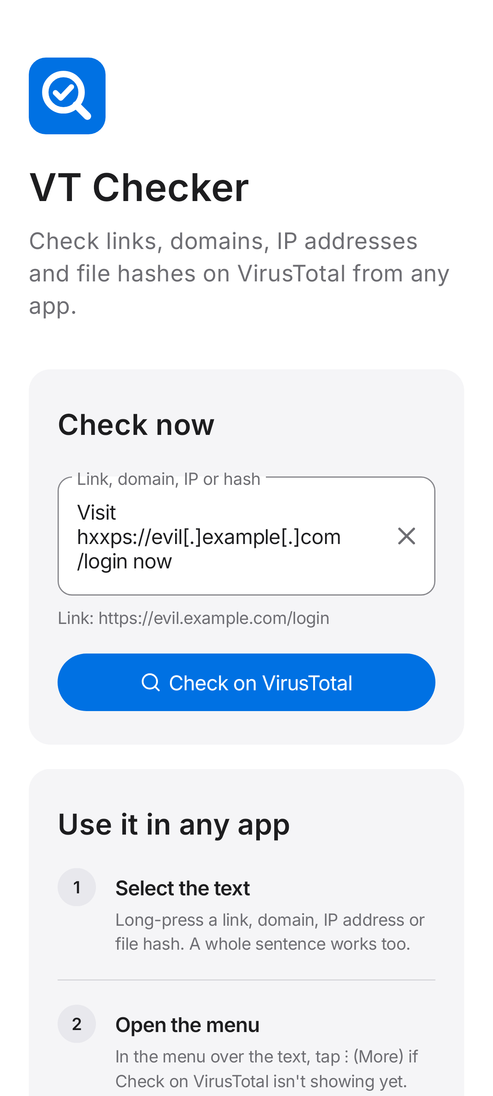
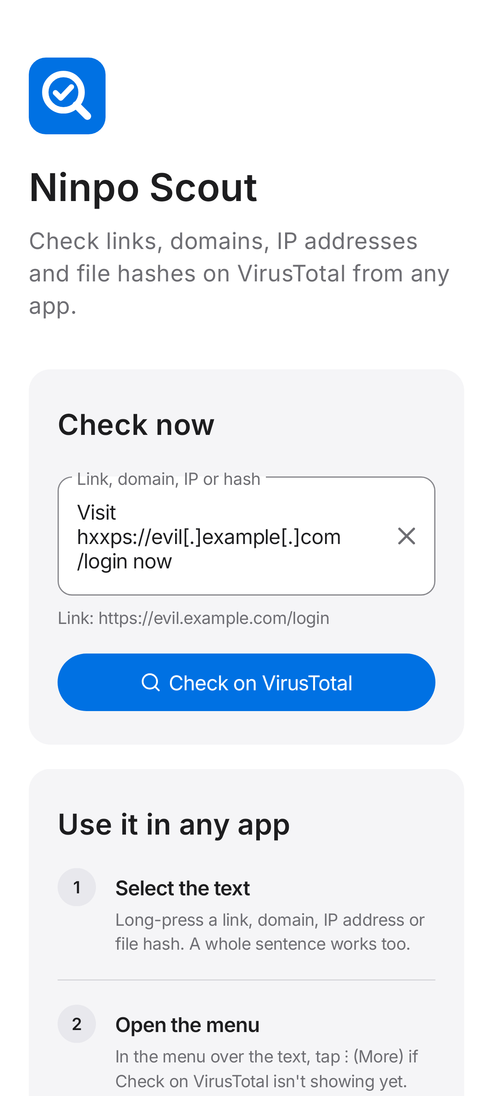
Rename the app to Ninpo Scout
"VT" in the old name referred to VirusTotal, which Google Play's
impersonation policy makes risky without VirusTotal's permission.
Ninpo Scout leads with the company name.

- Application ID and package: com.ninpo.vtchecker -> com.ninpo.scout.
  It can't change after the first Play upload, so it changes now.
- App name, home screen, footer, dialogs, licenses screen, theme and
  style names, the settings file name and README.
- The text-menu and Share label stays "Check on VirusTotal", since it
  tells people where the report comes from.
- README screenshots re-rendered.

Changed region(s): [[0.0609, 0.1551, 0.5172, 0.1861]]

diff --git a/app/src/test/java/com/ninpo/scout/ScreenshotTest.java b/app/src/test/java/com/ninpo/scout/ScreenshotTest.java
@@ -1,4 +1,4 @@
-package com.ninpo.vtchecker;
+package com.ninpo.scout;
 
 import static org.junit.Assume.assumeTrue;
 
@@ -41,7 +41,7 @@ public class ScreenshotTest {
 
     @Before
     public void onlyWhenAsked() {
-        assumeTrue(Boolean.getBoolean("vt.screenshots"));
+        assumeTrue(Boolean.getBoolean("scout.screenshots"));
     }
 
     @Test
@@ -127,7 +127,7 @@ public class ScreenshotTest {
 
     private static void captureCheck(String name, String text, boolean noticeSeen) throws IOException {
         Context app = ApplicationProvider.getApplicationContext();
-        app.getSharedPreferences("vt_checker", Context.MODE_PRIVATE)
+        app.getSharedPreferences("scout", Context.MODE_PRIVATE)
                 .edit().putBoolean("privacy_notice_seen", noticeSeen).commit();
         android.content.Intent intent = new android.content.Intent(android.content.Intent.ACTION_PROCESS_TEXT)
                 .setClass(app, CheckActivity.class)
@@ -152,7 +152,7 @@ public class ScreenshotTest {
         Canvas canvas = new Canvas(bitmap);
         canvas.drawColor(background);
         view.draw(canvas);
-        File dir = new File(System.getProperty("vt.screenshotDir", "build/screenshots"));
+        File dir = new File(System.getProperty("scout.screenshotDir", "build/screenshots"));
         if (!dir.isDirectory() && !dir.mkdirs()) throw new IOException("can't create " + dir);
         try (FileOutputStream out = new FileOutputStream(new File(dir, name + ".png"))) {
             bitmap.compress(Bitmap.CompressFormat.PNG, 100, out);

diff --git a/app/src/test/java/com/ninpo/scout/CheckActivityTest.java b/app/src/test/java/com/ninpo/scout/CheckActivityTest.java
@@ -1,4 +1,4 @@
-package com.ninpo.vtchecker;
+package com.ninpo.scout;
 
 import static org.junit.Assert.assertEquals;
 import static org.junit.Assert.assertFalse;
@@ -37,7 +37,7 @@ public class CheckActivityTest {
     }
 
     private void noticeAlreadySeen() {
-        app.getSharedPreferences("vt_checker", Context.MODE_PRIVATE)
+        app.getSharedPreferences("scout", Context.MODE_PRIVATE)
                 .edit().putBoolean("privacy_notice_seen", true).commit();
     }
 
@@ -96,7 +96,7 @@ public class CheckActivityTest {
         ShadowLooper.idleMainLooper();
         assertEquals("https://www.virustotal.com/gui/search?query=8.8.8.8", openedUrl(activity));
         assertTrue(activity.isFinishing());
-        assertTrue(app.getSharedPreferences("vt_checker", Context.MODE_PRIVATE)
+        assertTrue(app.getSharedPreferences("scout", Context.MODE_PRIVATE)
                 .getBoolean("privacy_notice_seen", false));
     }
 
@@ -107,7 +107,7 @@ public class CheckActivityTest {
         ShadowLooper.idleMainLooper();
         assertNull(shadowOf(activity).getNextStartedActivity());
         assertTrue(activity.isFinishing());
-        assertFalse(app.getSharedPreferences("vt_checker", Context.MODE_PRIVATE)
+        assertFalse(app.getSharedPreferences("scout", Context.MODE_PRIVATE)
                 .getBoolean("privacy_notice_seen", false));
     }
 

diff --git a/app/src/test/java/com/ninpo/scout/IndicatorParserTest.java b/app/src/test/java/com/ninpo/scout/IndicatorParserTest.java
@@ -1,9 +1,9 @@
-package com.ninpo.vtchecker;
+package com.ninpo.scout;
 
-import static com.ninpo.vtchecker.Indicator.Type.DOMAIN;
-import static com.ninpo.vtchecker.Indicator.Type.FILE_HASH;
-import static com.ninpo.vtchecker.Indicator.Type.IP_ADDRESS;
-import static com.ninpo.vtchecker.Indicator.Type.URL;
+import static com.ninpo.scout.Indicator.Type.DOMAIN;
+import static com.ninpo.scout.Indicator.Type.FILE_HASH;
+import static com.ninpo.scout.Indicator.Type.IP_ADDRESS;
+import static com.ninpo.scout.Indicator.Type.URL;
 import static org.junit.Assert.assertEquals;
 import static org.junit.Assert.assertFalse;
 import static org.junit.Assert.assertTrue;

diff --git a/app/src/main/java/com/ninpo/scout/CheckFlow.java b/app/src/main/java/com/ninpo/scout/CheckFlow.java
@@ -1,4 +1,4 @@
-package com.ninpo.vtchecker;
+package com.ninpo.scout;
 
 import android.content.ActivityNotFoundException;
 import android.content.Context;
@@ -28,7 +28,7 @@ import java.util.List;
  */
 final class CheckFlow {
 
-    private static final String PREFS = "vt_checker";
+    private static final String PREFS = "scout";
     private static final String KEY_NOTICE_SEEN = "privacy_notice_seen";
 
     private CheckFlow() {}

diff --git a/app/src/main/java/com/ninpo/scout/Indicator.java b/app/src/main/java/com/ninpo/scout/Indicator.java
@@ -1,4 +1,4 @@
-package com.ninpo.vtchecker;
+package com.ninpo.scout;
 
 import androidx.annotation.NonNull;
 import androidx.annotation.StringRes;

diff --git a/app/src/main/java/com/ninpo/scout/IndicatorParser.java b/app/src/main/java/com/ninpo/scout/IndicatorParser.java
@@ -1,4 +1,4 @@
-package com.ninpo.vtchecker;
+package com.ninpo.scout;
 
 import androidx.annotation.NonNull;
 import androidx.annotation.Nullable;

diff --git a/app/src/main/java/com/ninpo/scout/MainActivity.java b/app/src/main/java/com/ninpo/scout/MainActivity.java
@@ -1,4 +1,4 @@
-package com.ninpo.vtchecker;
+package com.ninpo.scout;
 
 import android.animation.ValueAnimator;
 import android.content.ClipData;

diff --git a/app/src/main/java/com/ninpo/scout/CheckActivity.java b/app/src/main/java/com/ninpo/scout/CheckActivity.java
@@ -1,4 +1,4 @@
-package com.ninpo.vtchecker;
+package com.ninpo.scout;
 
 import android.content.Intent;
 import android.os.Bundle;

diff --git a/app/src/main/java/com/ninpo/scout/Tlds.java b/app/src/main/java/com/ninpo/scout/Tlds.java
@@ -1,4 +1,4 @@
-package com.ninpo.vtchecker;
+package com.ninpo.scout;
 
 import java.util.Arrays;
 import java.util.Collections;

diff --git a/app/src/test/java/com/ninpo/scout/VirusTotalTest.java b/app/src/test/java/com/ninpo/scout/VirusTotalTest.java
@@ -1,4 +1,4 @@
-package com.ninpo.vtchecker;
+package com.ninpo.scout;
 
 import static org.junit.Assert.assertEquals;
 

diff --git a/app/src/main/java/com/ninpo/scout/VirusTotal.java b/app/src/main/java/com/ninpo/scout/VirusTotal.java
@@ -1,4 +1,4 @@
-package com.ninpo.vtchecker;
+package com.ninpo.scout;
 
 import androidx.annotation.NonNull;
 

diff --git a/README.md b/README.md
@@ -1,4 +1,4 @@
-# VT Checker
+# Ninpo Scout
 
 An Android app by Ninpo Inc. that adds **Check on VirusTotal** to the text-selection menu and the Share sheet. Select a link, domain, IP address or file hash in any app, choose Check on VirusTotal, and its VirusTotal report opens over the app you were in.
 
@@ -36,12 +36,12 @@ VirusTotal redirects that to the right report (`/gui/url/…`, `/gui/domain/…`
 
 | Path | What it is |
 |---|---|
-| `app/src/main/java/com/ninpo/vtchecker/IndicatorParser.java` | Finds and cleans up links, domains, IPs and hashes in text |
-| `app/src/main/java/com/ninpo/vtchecker/Tlds.java` | IANA top-level domain list, so `config.yaml` isn't mistaken for a domain |
-| `app/src/main/java/com/ninpo/vtchecker/VirusTotal.java` | Builds the VirusTotal address |
-| `app/src/main/java/com/ninpo/vtchecker/CheckActivity.java` | The text-selection and Share handler (no screen of its own) |
-| `app/src/main/java/com/ninpo/vtchecker/CheckFlow.java` | Choosing an item, the first-check notice, opening the Custom Tab |
-| `app/src/main/java/com/ninpo/vtchecker/MainActivity.java` | Home screen |
+| `app/src/main/java/com/ninpo/scout/IndicatorParser.java` | Finds and cleans up links, domains, IPs and hashes in text |
+| `app/src/main/java/com/ninpo/scout/Tlds.java` | IANA top-level domain list, so `config.yaml` isn't mistaken for a domain |
+| `app/src/main/java/com/ninpo/scout/VirusTotal.java` | Builds the VirusTotal address |
+| `app/src/main/java/com/ninpo/scout/CheckActivity.java` | The text-selection and Share handler (no screen of its own) |
+| `app/src/main/java/com/ninpo/scout/CheckFlow.java` | Choosing an item, the first-check notice, opening the Custom Tab |
+| `app/src/main/java/com/ninpo/scout/MainActivity.java` | Home screen |
 | `app/src/main/res/values/colors.xml`, `values-night/colors.xml` | Light and dark color tokens |
 
 The design follows the apple-web-design system: its color tokens, type scale and spacing, the Inter typeface, one pill button style, and WCAG 2.2 AA contrast in both themes.
@@ -59,7 +59,7 @@ Requires Android Studio (or JDK 17+ and the Android SDK with platform 36).
                                  # renders screens to app/build/screenshots/
 ```
 
-The application ID is `com.ninpo.vtchecker`. Version 1.0 used `com.example.vtchecker`, so phones with the old build installed will show two apps until the old one is removed.
+The application ID is `com.ninpo.scout`. It can't change once the app is on Google Play. Version 1.0 was called VT Checker and used `com.example.vtchecker`, so phones with that build will show two apps until the old one is removed.
 
 ## Maintenance
 
@@ -70,4 +70,4 @@ The application ID is `com.ninpo.vtchecker`. Version 1.0 used `com.example.vtche
 
 Inter (SIL Open Font License 1.1), Lucide and Feather icons (ISC and MIT), AndroidX and Material Components (Apache 2.0). The full texts ship in the app under Open-source licenses.
 
-VT Checker is not affiliated with or endorsed by VirusTotal.
+Ninpo Scout is not affiliated with or endorsed by VirusTotal.
